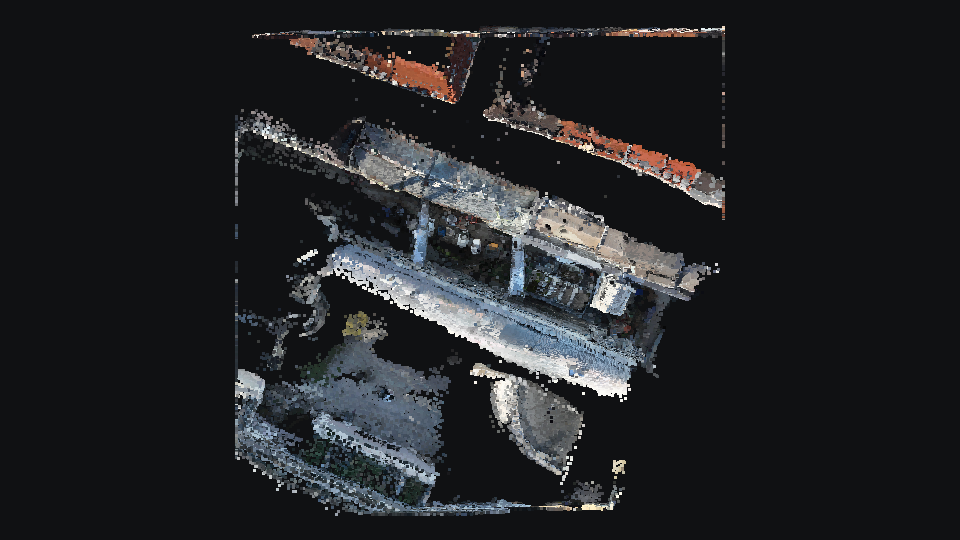
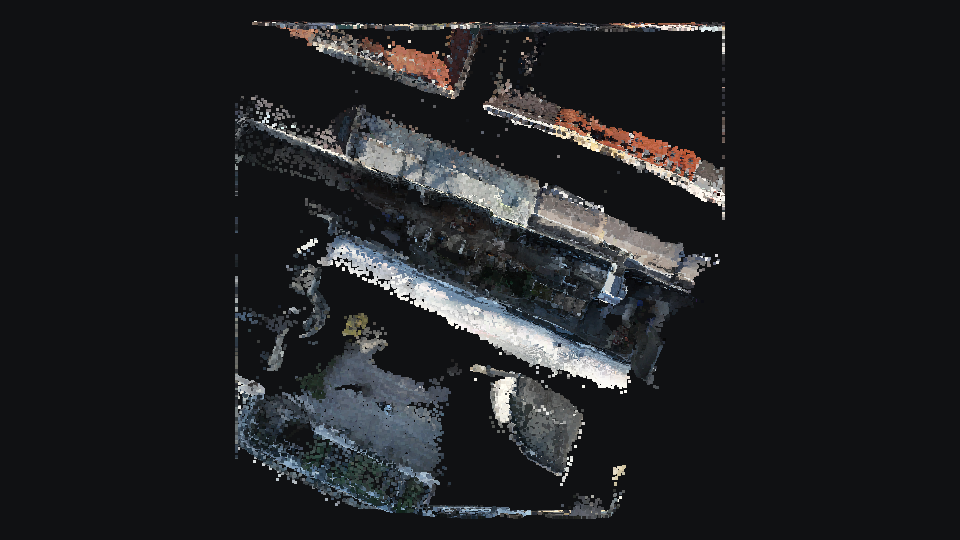
Fix point-cloud orientation and simplify metadata

Changed region(s): [[0.2188, 0.1778, 0.75, 0.9778], [0.25, 0.0296, 0.7812, 0.3852]]

diff --git a/app.js b/app.js
@@ -45,6 +45,10 @@ function formatCount(value) {
   return String(value);
 }
 
+function sceneModeLabel(scene) {
+  return scene.rtkMetrics ? "视觉 + RTK" : "纯视觉";
+}
+
 function setActiveView(name) {
   viewButtons.forEach((button) => {
     button.classList.toggle("active", button.dataset.view === name);
@@ -314,28 +318,23 @@ async function loadCloud(scene) {
     inputStrip.appendChild(figure);
   });
   const framesTotal = scene.framesTotal ?? scene.rtkMetrics?.frames_total ?? scene.inputs.length;
-  const metaParts = [`${framesTotal}帧推理`, `全量${formatCount(scene.displayPoints)}点`];
-  if (scene.inputs.length !== framesTotal) {
-    metaParts.push(`${scene.inputs.length}张示例图`);
-  }
-  if (scene.stageLabel) {
-    metaParts.push(scene.stageLabel);
-  }
+  const metaParts = [
+    sceneModeLabel(scene),
+    `${formatCount(scene.displayPoints)}点`,
+    `${framesTotal}帧`,
+  ];
   if (scene.coordinateFrame) {
-    metaParts.push(scene.coordinateFrame);
+    metaParts.push(`坐标系：${scene.coordinateFrame}`);
   }
   if (scene.rtkMetrics && Number.isFinite(scene.rtkMetrics.rmse_3d_m_holdout)) {
-    metaParts.push(`留出RTK RMSE ${scene.rtkMetrics.rmse_3d_m_holdout.toFixed(2)}m`);
+    metaParts.push(`留出 RTK RMSE：${scene.rtkMetrics.rmse_3d_m_holdout.toFixed(2)}m`);
   } else if (scene.rtkMetrics && Number.isFinite(scene.rtkMetrics.rmse_3d_m_all_frames_diagnostic)) {
-    metaParts.push(`全帧拟合诊断 ${scene.rtkMetrics.rmse_3d_m_all_frames_diagnostic.toFixed(2)}m`);
+    metaParts.push(`全帧拟合诊断：${scene.rtkMetrics.rmse_3d_m_all_frames_diagnostic.toFixed(2)}m`);
   }
   if (scene.rtkMetrics?.fit_frames && Number.isFinite(scene.rtkMetrics.fit_inliers)) {
-    metaParts.push(`一致内点 ${scene.rtkMetrics.fit_inliers}/${scene.rtkMetrics.fit_frames}`);
+    metaParts.push(`一致内点：${scene.rtkMetrics.fit_inliers}/${scene.rtkMetrics.fit_frames}`);
   }
-  const sourceLink = scene.sourceUrl
-    ? `<a href="${scene.sourceUrl}" target="_blank" rel="noopener noreferrer">${scene.sourceCredit || "数据来源"}</a>`
-    : "";
-  detailMeta.innerHTML = metaParts.map((part) => `<span>${part}</span>`).join("") + sourceLink;
+  detailMeta.innerHTML = metaParts.map((part) => `<span>${part}</span>`).join("");
   cardByStem.forEach((card, stem) => {
     card.classList.toggle("active", stem === scene.stem);
   });
@@ -398,7 +397,7 @@ function renderGrid(items) {
         <img src="${item.preview}" alt="${item.title}预览" loading="lazy">
       <div class="case-body">
         <h3>${item.title}</h3>
-        <p>${item.stageLabel ? `${item.stageLabel} · ` : ""}全量${formatCount(item.displayPoints)}点 · ${framesTotal}帧推理</p>
+        <p>${sceneModeLabel(item)} · ${formatCount(item.displayPoints)}点 · ${framesTotal}帧</p>
       </div>
     `;
     card.addEventListener("click", () => {